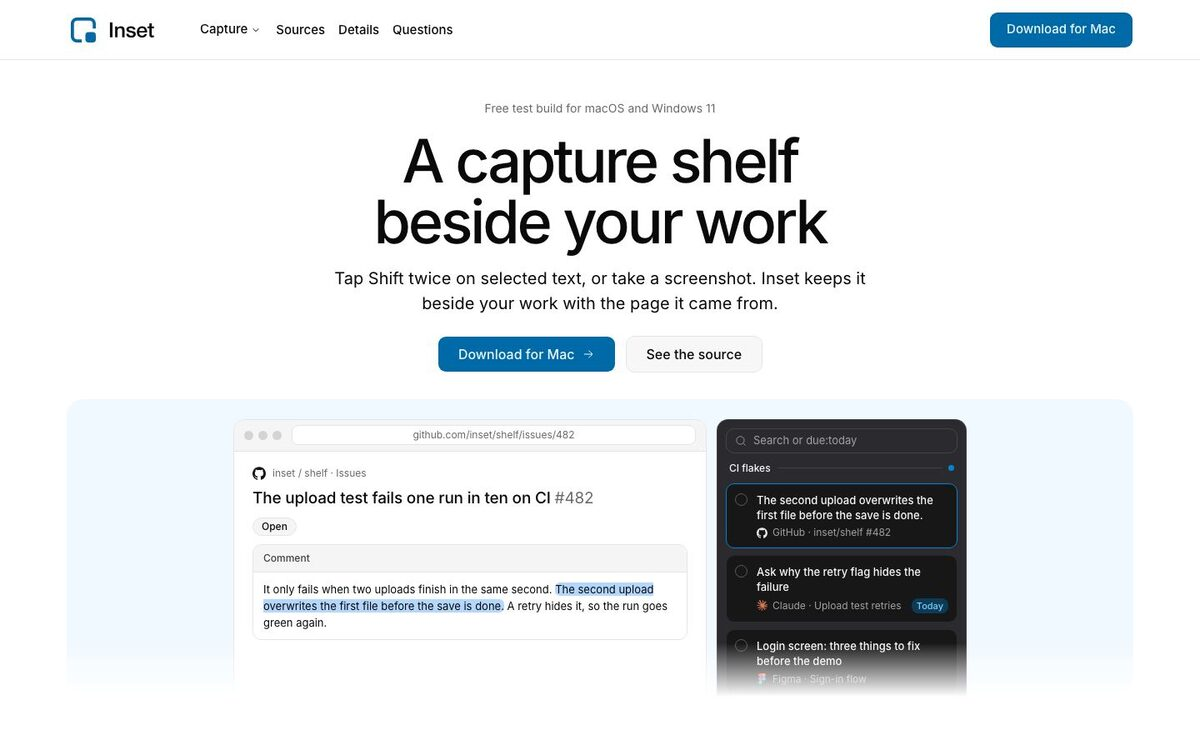
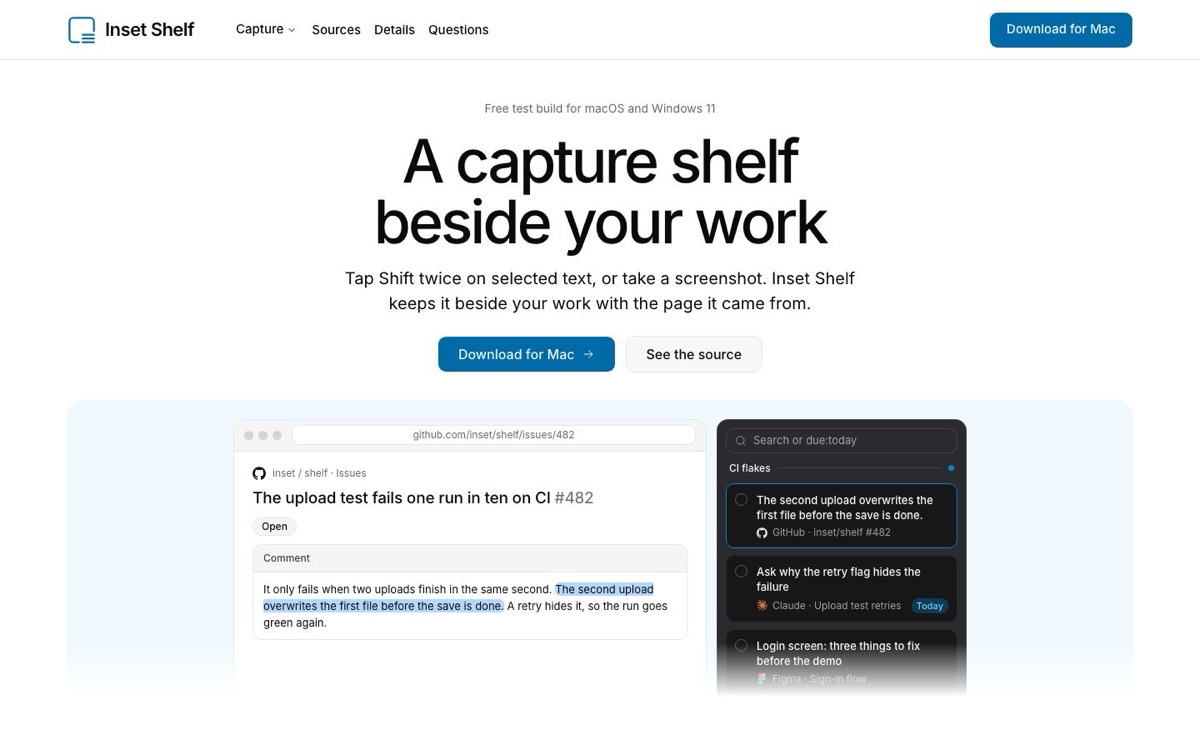
feat(site): brand the page as Inset Shelf with the Shelf mark

Changed region(s): [[0.2775, 0.3373, 0.7092, 0.4293], [0.0308, 0.0, 0.4008, 0.0613]]

diff --git a/site/app/not-found.tsx b/site/app/not-found.tsx
@@ -1,19 +1,22 @@
 import type { Metadata } from "next";
 
-export const metadata: Metadata = { title: "Page not found · Inset", robots: { index: false } };
+import { Logo } from "@/components/logo";
+
+export const metadata: Metadata = {
+  title: "Page not found · Inset Shelf",
+  robots: { index: false },
+};
 
 // Exported as 404.html; Cloudflare serves it for any address the site does not have.
 export default function NotFound() {
   return (
     <main className="wrap grid min-h-svh content-center gap-6">
-      <a href="/" className="justify-self-start">
-        <img src="/brand/inset-logo.svg" alt="Inset" width={132} height={48} />
-      </a>
+      <Logo className="justify-self-start" />
       <h1 className="text-h2 font-medium">This page is not on the shelf</h1>
       <p className="text-muted-foreground">
         The address may be old.{" "}
         <a href="/" className="text-primary underline underline-offset-4">
-          Go to the Inset home page
+          Go to the Inset Shelf home page
         </a>
         .
       </p>

diff --git a/site/components/logo.tsx b/site/components/logo.tsx
@@ -1,15 +1,18 @@
-// The Inset logo from the brand kit, unchanged (public/brand/inset-logo.svg).
+// The Shelf mark, the app's icon (scripts/generate-icons.ts), beside the name set in Inter.
 export function Logo({ className, lazy = false }: { className?: string; lazy?: boolean }) {
   return (
-    <a href="#top" className={className}>
-      <img
-        src="/brand/inset-logo.svg"
-        alt="Inset"
-        width={110}
-        height={40}
-        loading={lazy ? "lazy" : undefined}
-        className="h-9 w-auto sm:h-10"
-      />
+    <a href="/" className={className}>
+      <span className="flex items-center gap-2.5">
+        <img
+          src="/brand/shelf-mark.svg"
+          alt=""
+          width={32}
+          height={32}
+          loading={lazy ? "lazy" : undefined}
+          className="size-8 sm:size-9"
+        />
+        <span className="text-xl font-semibold tracking-tight sm:text-[22px]">Inset Shelf</span>
+      </span>
     </a>
   );
 }

diff --git a/site/components/site-footer.tsx b/site/components/site-footer.tsx
@@ -34,7 +34,7 @@ export function SiteFooter() {
         <div className="grid gap-6 sm:gap-10">
           <div className="grid gap-4">
             <h2 id="close-h" className="text-h2 font-medium">
-              Try Inset on your Mac
+              Try Inset Shelf on your Mac
             </h2>
             <p className="max-w-[62ch] text-muted-foreground">
               Free and unsigned: on the first open, click Open Anyway in System Settings &gt;
@@ -70,7 +70,7 @@ export function SiteFooter() {
             ))}
           </div>
           <div className="flex flex-col justify-between gap-2 border-t pt-6 text-label text-muted-foreground sm:flex-row">
-            <span>© 2026 Inset, a school innovation project</span>
+            <span>© 2026 Inset Shelf, a school innovation project</span>
             <span>Product names and logos are trademarks of their owners</span>
           </div>
         </div>

diff --git a/site/components/claim.tsx b/site/components/claim.tsx
@@ -49,7 +49,7 @@ export function Claim() {
             <Heading id="why-h">Saved notes lose where they came from.</Heading>
             <p className="max-w-[36ch] sm:text-lead">
               A sentence pasted into a notes app no longer knows its chat, pull request or page.
-              Inset keeps the source with every item, and one click opens it again.
+              Inset Shelf keeps the source with every item, and one click opens it again.
             </p>
           </div>
           {/* the opening starts on the page's split line: six of twelve columns */}

diff --git a/site/components/hero.tsx b/site/components/hero.tsx
@@ -23,7 +23,7 @@ export function Hero() {
               A capture shelf beside your work
             </h1>
             <p className="enter max-w-[52ch] text-lead">
-              Tap Shift twice on selected text, or take a screenshot. Inset keeps it beside your
+              Tap Shift twice on selected text, or take a screenshot. Inset Shelf keeps it beside your
               work with the page it came from.
             </p>
             <div className="enter mt-2 flex w-full flex-col justify-center gap-3 sm:w-auto sm:flex-row">

diff --git a/site/components/questions.tsx b/site/components/questions.tsx
@@ -23,7 +23,7 @@ const QUESTIONS = [
     a: "On your computer, in one file called shelf.json, with images and files in a folder beside it.",
   },
   {
-    q: "Is Inset finished?",
+    q: "Is Inset Shelf finished?",
     a: "No. It is the third Inset prototype, from a school innovation project, built to test a running list beside your work.",
   },
 ];

diff --git a/site/app/layout.tsx b/site/app/layout.tsx
@@ -13,7 +13,7 @@ const inter = localFont({
   display: "swap",
 });
 
-const TITLE = "Inset: a capture shelf for Mac and Windows";
+const TITLE = "Inset Shelf: a capture shelf for Mac and Windows";
 
 export const metadata: Metadata = {
   metadataBase: new URL(SITE_URL),
